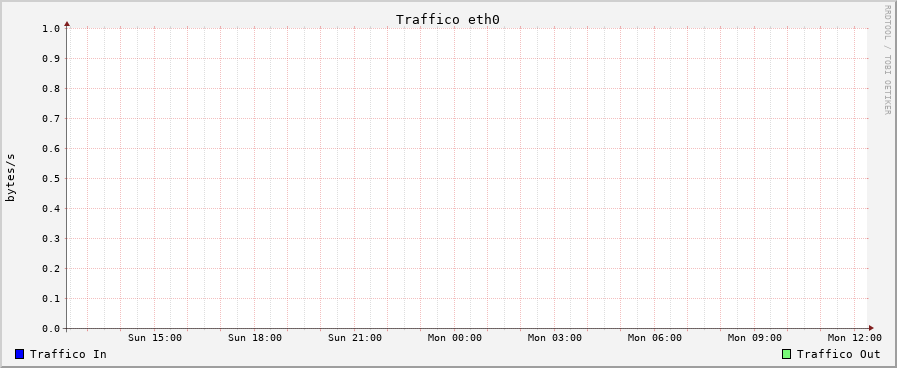
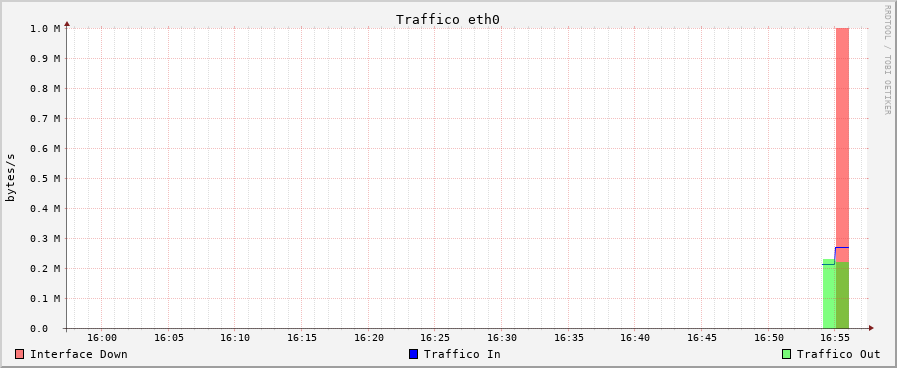
Al secondo dì tutto fu dovuto

diff --git a/snmp-monitor/src/snmp_monitor/rdd_module/rdd_manager.py b/snmp-monitor/src/snmp_monitor/rdd_module/rdd_manager.py
@@ -1,7 +1,7 @@
-import time
-import rrdtool
 import os
 import csv
+import time
+import rrdtool
 
 def create_rrd_path(agent_ip:str,if_index:str)-> str :
 
@@ -11,47 +11,68 @@ def create_rrd_path(agent_ip:str,if_index:str)-> str :
     filename=f"rrd_data/{ip}_if{if_index}.rrd"
     return filename
 
-def create_rrd(path:str) :
+def create_rrd(path:str, start_time:int|None=None, overwrite:bool=False) :
 
-    #creo la cartella contenente i file rrd se esiste non succede altro
+    # Se il file esiste già e dobbiamo ricrearlo, lo rimuoviamo prima di ricrearlo
+    if overwrite and os.path.exists(path):
+        os.remove(path)
 
+    # Creo la cartella dei file RRD se non esiste
     os.makedirs("rrd_data", exist_ok=True) 
 
-    #.create crea effettivamente il file rrd
+    # Se non viene passato un start_time, uso un valore leggermente precedente al momento attuale
+    if start_time is None:
+        start_time = int(time.time()) - 120
 
     rrdtool.create(
-        path,   #nome file
-        "--step","60", # ogni quanto fa polling
-        "DS:if_oper_status:GAUGE:120:0:U", #DS:nome:tipo:heartbeat:min:max (GAUGE per valori fissi, COUNTER per valori crescenti)
-        "DS:if_octets_in:COUNTER:120:0:U",  #min valore minimo accettato per i contatori e max valore massimo, U per illimitato
-        "DS:if_octets_out:COUNTER:120:0:U", #heartbeat è 2xstep quindi 60x2
+        path,
+        "--step","60",    #polling ogni 60s
+        "--start", str(start_time),
+        "DS:if_oper_status:GAUGE:120:0:U",  #DS : nome : tipo : heartbeat : min : max /gauge
+        "DS:if_octets_in:COUNTER:120:0:U",  #il Gauge server per valori fissi, counter per valori crescenti
+        "DS:if_octets_out:COUNTER:120:0:U", 
         "DS:if_in_errors:COUNTER:120:0:U",
         "DS:if_out_errors:COUNTER:120:0:U",
-        "RRA:AVERAGE:0.5:1:1440" # salva la media, ogni 1 misura, per 1440 campioni
+        "RRA:AVERAGE:0.5:1:1440" # definisce come archiviare i dati nel tempo
     )
 
-def update_rrd(path:str,row:dict) :
+def update_rrd(path:str,row:dict) -> bool:
 
-    #il file rrd esiste già vieni solo aggiornato
-
+    # Costruisco la stringa di aggiornamento nel formato richiesto da RRDtool
     stringa=f"{row['timestamp']}:{row['if_oper_status']}:{row['if_in_octets']}:{row['if_out_octets']}:{row['if_in_errors']}:{row['if_out_errors']}"
     print(f"UPDATE: {path} -> {stringa}")
 
     try:
         rrdtool.update(path, stringa)
+        return True
     except rrdtool.OperationalError as e:
         print(f"Saltato: {e}")
-        pass  # timestamp già inserito, saltiamo
+        # Se l'aggiornamento fallisce per timestamp troppo vecchio, ricreo il file con un start_time coerente
+        timestamp = int(row['timestamp'])
+        try:
+            create_rrd(path, start_time=timestamp - 120, overwrite=True)
+            rrdtool.update(path, stringa)
+            return True
+        except rrdtool.OperationalError as retry_error:
+            print(f"Retry fallito: {retry_error}")
+            return False
 
 def process_row(row:dict):
 
-    #trovi il path e controlli se esiste
-
+    # Ricavo il path del file RRD per questo interfaccia
     path= create_rrd_path(row['agent_ip'],row['if_index'])
+    timestamp = int(row['timestamp'])
 
-    if not os.path.exists(path): 
-        create_rrd(path)
-    update_rrd(path,row)
+    # Se il file non esiste, lo creo prima di inserire i dati
+    if not os.path.exists(path):
+        create_rrd(path, start_time=timestamp - 120)
+        update_rrd(path,row)
+        return
+
+    # Se l'aggiornamento fallisce, ricreo il file e riprovo
+    if not update_rrd(path,row):
+        create_rrd(path, start_time=timestamp - 120, overwrite=True)
+        update_rrd(path,row)
 
 
 if __name__ == "__main__":

diff --git a/snmp-monitor/src/snmp_monitor/rdd_module/rdd_grapher.py b/snmp-monitor/src/snmp_monitor/rdd_module/rdd_grapher.py
@@ -3,6 +3,7 @@ import rrdtool
 
 def graph_traffic(path:str) :
 
+    # Creo la cartella dove salvare i grafici PNG se non esiste
     os.makedirs("rrd_graphs", exist_ok=True)
 
     rrd_path = f"rrd_data/{path}"
@@ -12,18 +13,24 @@ def graph_traffic(path:str) :
     print(f"File esiste: {os.path.exists(rrd_path_abs)}")
     print(f"DEF: DEF:traffic_in:{rrd_path_abs}:if_octets_in:AVERAGE")
 
+    # Genero il grafico con un intervallo di 1 ora e una linea più leggibile
+    # così i punti non spariscono se i campioni arrivano con un po' di ritardo
     rrdtool.graph(
         png_path,
-        "--start","-24h",
-        "--end","now",
-        "--title", "Traffico eth0" ,      # titolo del grafico
-        "--vertical-label", "bytes/s",     # etichetta asse Y
-        "--width", "800",                  # larghezza in pixel
-        "--height", "300",                 # altezza in pixel
-        f"DEF:traffic_in={rrd_path_abs}:if_octets_in:AVERAGE",
+        "--start", "-1h", #inizio tempo dati raccolti
+        "--end", "now", #fine tempo dati raccolti
+        "--title", "Traffico eth0", #titolo grafo
+        "--vertical-label", "bytes/s", #testo asse verticale
+        "--width", "800", #larghezza
+        "--height", "300", #altezza
+        "--slope-mode", # fa in modo che la linea sia più leggibile
+        f"DEF:traffic_in={rrd_path_abs}:if_octets_in:AVERAGE", #valori mostrati
         f"DEF:traffic_out={rrd_path_abs}:if_octets_out:AVERAGE",
-        "LINE1:traffic_in#0000FF:Traffico In",    # linea blu
-        "AREA:traffic_out#00FF0080:Traffico Out", # area verde semitrasparente
+        f"DEF:status={rrd_path_abs}:if_oper_status:AVERAGE",
+        "CDEF:is_down=status,2,EQ,1000000,0,IF",
+        "AREA:is_down#FF000080:Interface Down",
+        "LINE1:traffic_in#0000FF:Traffico In", 
+        "AREA:traffic_out#00FF0080:Traffico Out",
     )
 
 def generate_all_graph() :